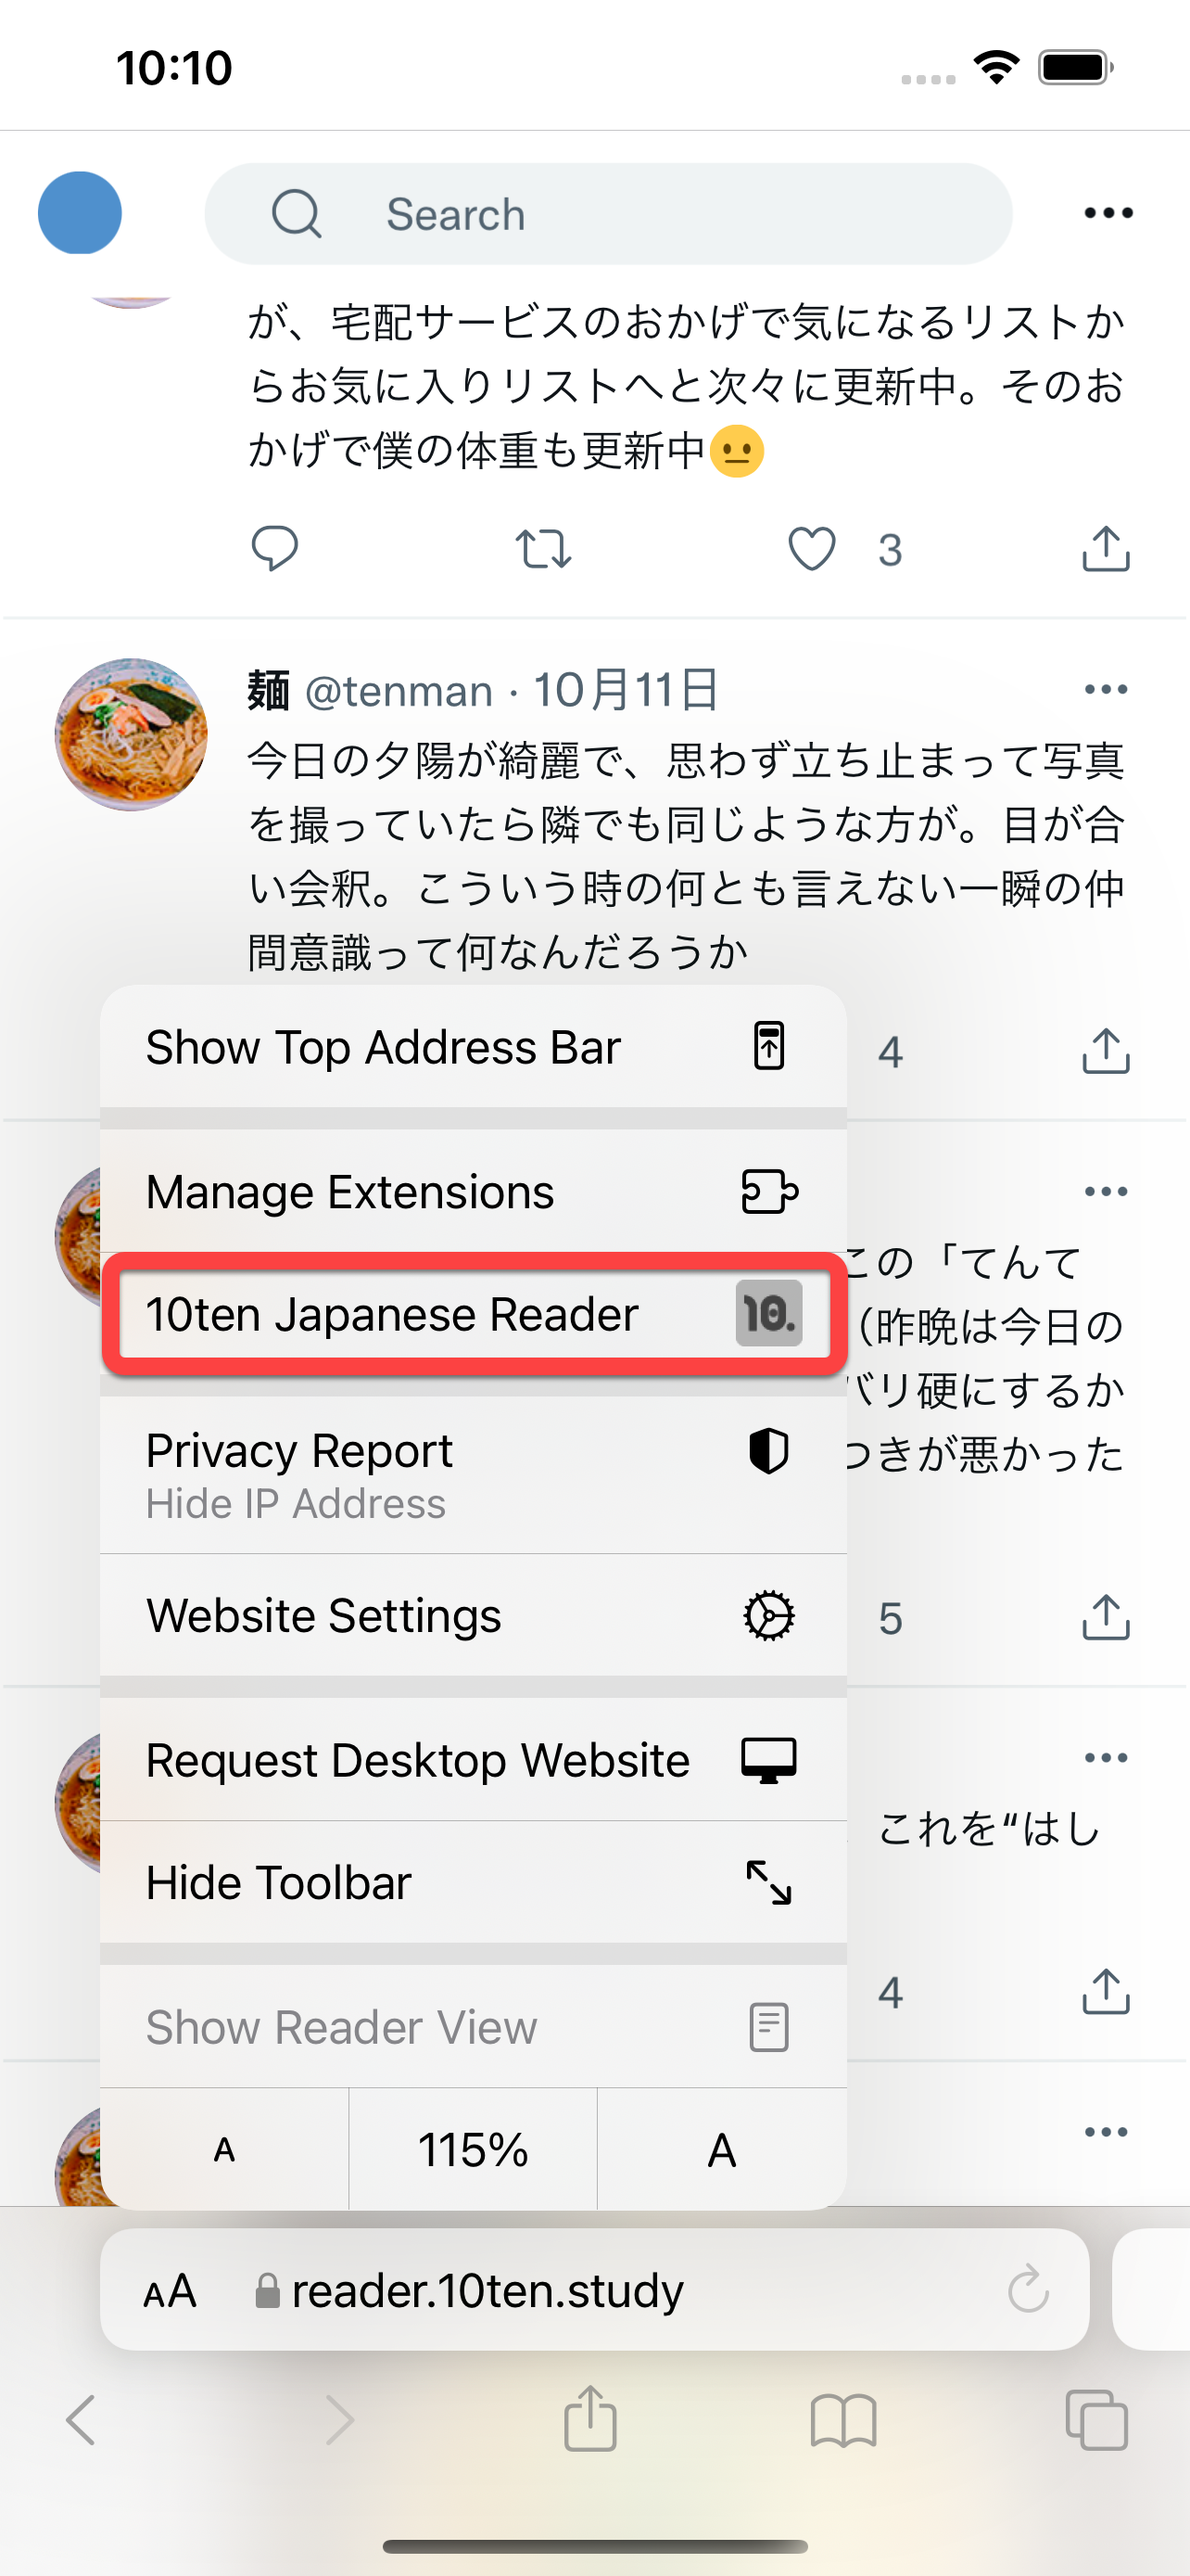
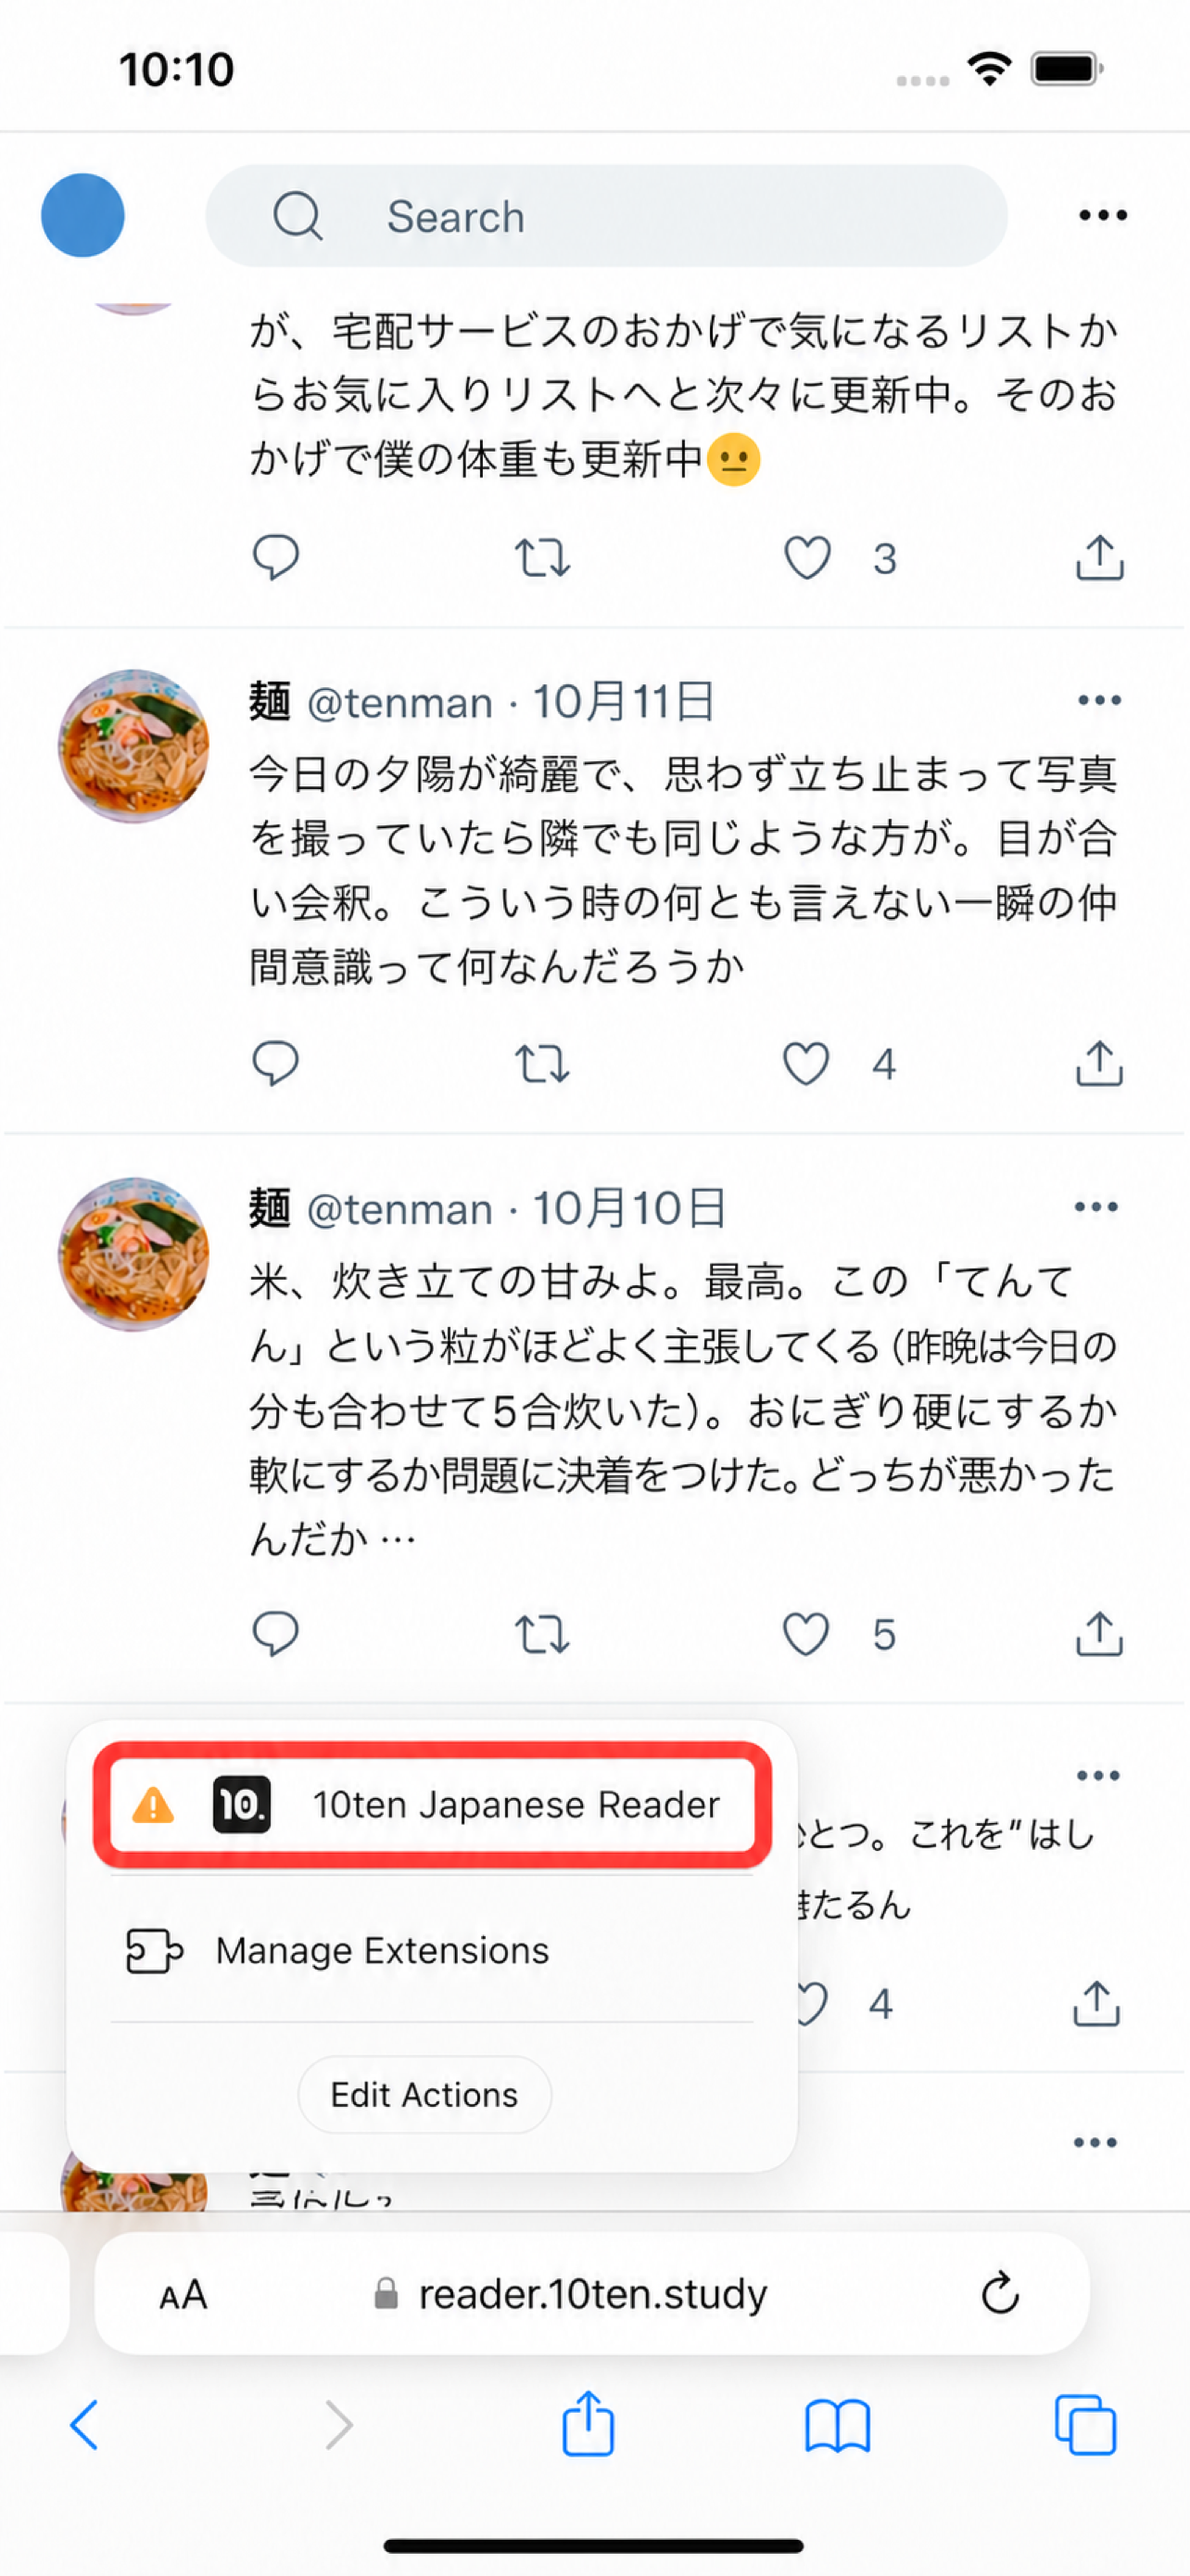
docs: update Safari permission onboarding

diff --git a/xcode13/Shared (App)/Resources/Style.css b/xcode13/Shared (App)/Resources/Style.css
@@ -218,6 +218,10 @@ body.platform-iphone .carousel .slides .slide:nth-child(5) .img {
 }
 
 body.platform-iphone .carousel .slides .slide:nth-child(6) .img {
+  background-image: url(iphone-6-permission.png);
+}
+
+body.platform-iphone .carousel .slides .slide:nth-child(7) .img {
   background-image: url(iphone-6.png);
 }
 
@@ -249,6 +253,10 @@ body.platform-iphone-pro .carousel .slides .slide:nth-child(5) .img {
 }
 
 body.platform-iphone-pro .carousel .slides .slide:nth-child(6) .img {
+  background-image: url(iphone-pro-6-permission.png);
+}
+
+body.platform-iphone-pro .carousel .slides .slide:nth-child(7) .img {
   background-image: url(iphone-pro-6.png);
 }
 
@@ -280,6 +288,10 @@ body.platform-ipad .carousel .slides .slide:nth-child(5) .img {
 }
 
 body.platform-ipad .carousel .slides .slide:nth-child(6) .img {
+  background-image: url(ipad-6-permission.png);
+}
+
+body.platform-ipad .carousel .slides .slide:nth-child(7) .img {
   background-image: url(ipad-6.png);
 }
 

diff --git a/xcode13/Shared (App)/Base.lproj/Main.html b/xcode13/Shared (App)/Base.lproj/Main.html
@@ -49,6 +49,10 @@
       </li>
       <li class="slide">
         <div class=img></div>
+        <p>Allow <strong>10ten Japanese Reader</strong> to access this website</p>
+      </li>
+      <li class="slide">
+        <div class=img></div>
         <p>Drag the <strong>10.</strong> circle to look up words</p>
       </li>
       <li class="slide">
@@ -284,6 +288,7 @@
   </div>
   <div class=dots role=presentation>
     <div class="dot active"></div>
+    <div class=dot></div>
     <div class=dot></div>
     <div class=dot></div>
     <div class=dot></div>
